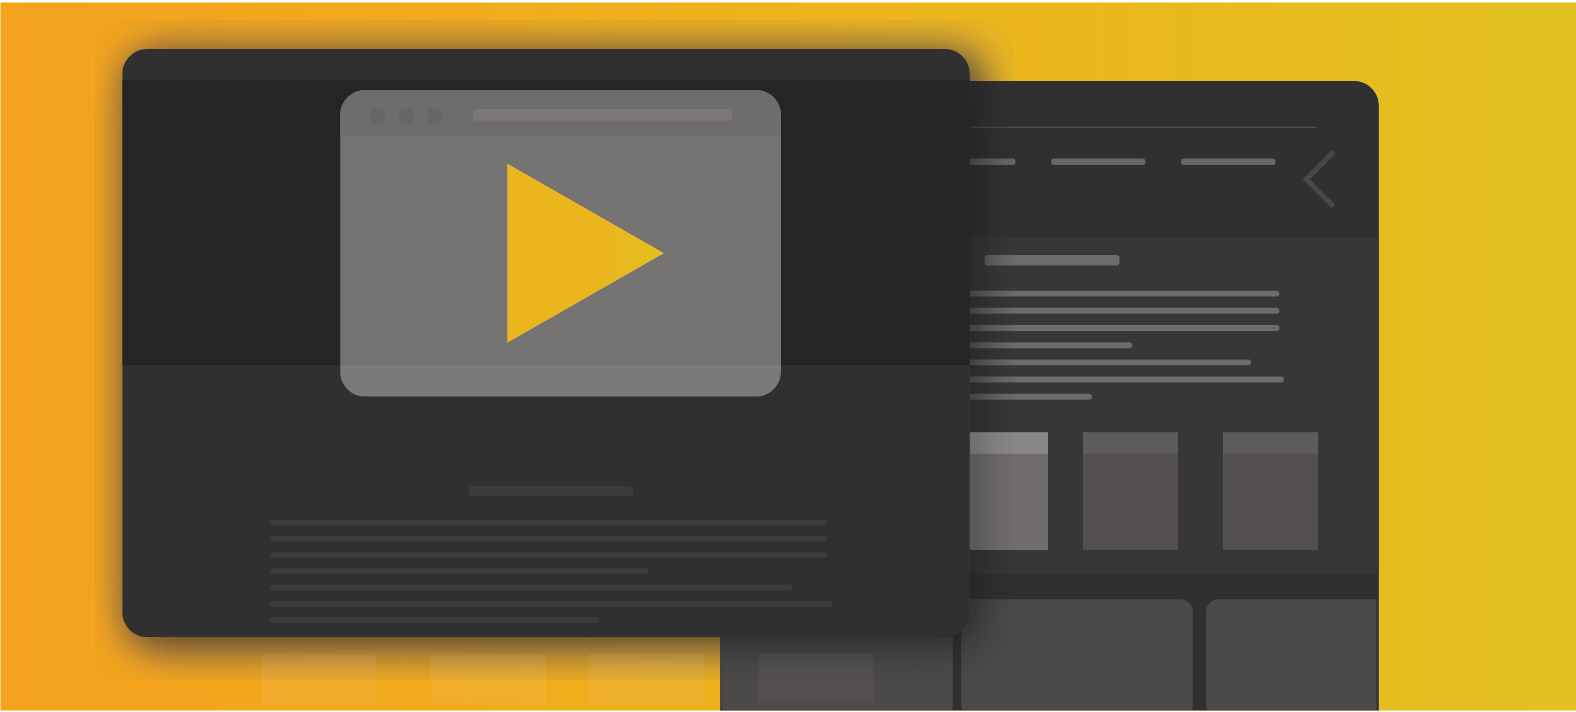
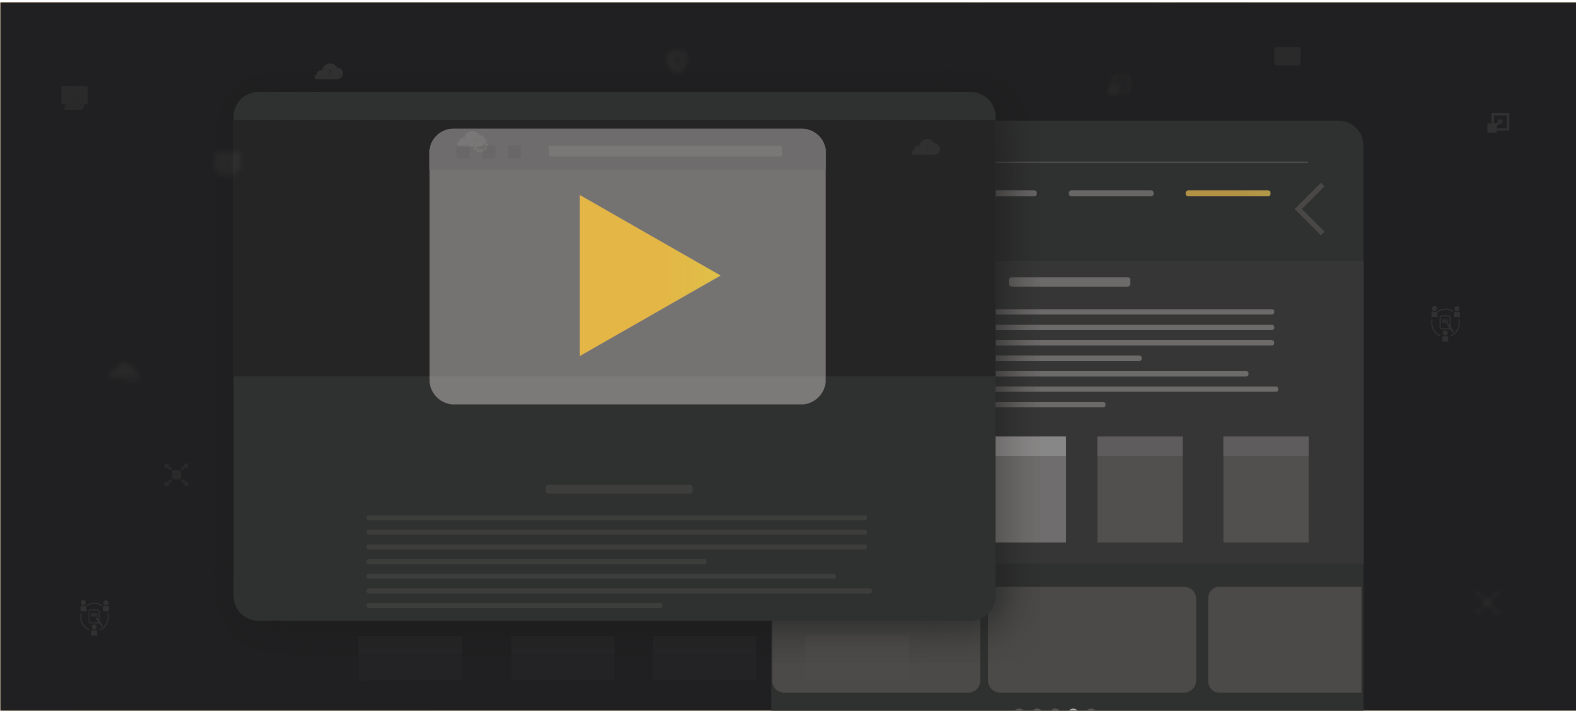
new

diff --git a/ohaka-restful-apis.html b/ohaka-restful-apis.html
@@ -13,9 +13,9 @@
     <body>
 
 
-        <div class="container-main" style="background-color: rgb(255, 182, 25); width: 30%;">
+        <div class="container-main" style="background-color: rgb(21, 21, 21); width: 30%;">
             <div class="text-block" style="width: 50%;  padding: 20px">
-               <a href="index.html"><img src="images/Larry Ohaka icon-02.png" width="100" height="80" id="lifepic" alt="Portrait"></a>
+               <a href="index.html"><img src="images/Larry Ohaka icon-02.png" width="80" height="60" id="lifepic" alt="Portrait"></a>
                 <h5 >PRESENTATIONS</h5> <p>Video presentation made in RESTful API WEB420</p></div>
             <div class="sidenav">
               <a href="index.html">Home</a>
@@ -28,7 +28,7 @@
             </footer> 
         </div>
 
-<div class="container-main"  id="container5">
+<div class="container-main"  id="container5" style="background-color: rgb(41, 41, 41); ">
 <section>
 
            <div class="container5" align="center" id="shows">
@@ -47,7 +47,7 @@
   <!-- The four columns -->
   <div style="text-align:center">
       <!--Video1-->
-      <p>RESTful APIs</p>
+      <p style="color: rgb(255, 182, 25);">RESTful APIs</p>
       <div style="width: 30%;">
         <div class="card-body">
         <video controls autoplay reload="none"  width="400" height="200" id="lifepic" alt="Portrait">
@@ -57,7 +57,7 @@
        </div>
     </br>
 <!--Video2-->
-<p>REST APIs</p>
+<p style="color: rgb(255, 182, 25);">REST APIs</p>
 <div>
     <div  style="width: 30%;">
     <video controls autoplay reload="none" width="400" height="200" id="lifepic" alt="Portrait">

diff --git a/ohaka-diagrams.html b/ohaka-diagrams.html
@@ -13,9 +13,9 @@
     <body>
 
 
-        <div class="container-main" style="background-color: rgb(255, 182, 25); width: 30%;">
+        <div class="container-main" style="background-color: rgb(21, 21, 21); width: 30%;">
             <div class="text-block" style="width: 50%;  padding: 20px">
-              <a href="index.html"><img src="images/Larry Ohaka icon-02.png" width="100" height="80" id="lifepic" alt="Portrait"></a>
+              <a href="index.html"><img src="images/Larry Ohaka icon-02.png" width="80" height="60" id="lifepic" alt="Portrait"></a>
                 <h5>DIAGRAMS</h5> <p>Diagrams made in Introduction to  NoSQL WEB355</p></div>
             <div class="sidenav">
               <a href="index.html">Home</a>
@@ -28,7 +28,7 @@
             </footer> 
         </div>
 
-<div class="container-main"  id="container5">
+<div class="container-main"  id="container5" style="background-color: rgb(41, 41, 41); ">
 <section>
 
            <div class="container5" align="center" id="shows">
@@ -41,7 +41,7 @@
   
   <div style="text-align:center" class=galtxt>
     <h2> Gallery</h2>
-    <p>NoSQL Diagrams</p>
+    <p style="color: rgb(255, 182, 25);">NoSQL Diagrams</p>
   </div>
   
   <!-- The four columns -->

diff --git a/index.html b/index.html
@@ -13,9 +13,9 @@
     <body>
 
 
-        <div class="container-main" style="background-color: rgb(255, 182, 25); width: 30%;">
+        <div class="container-main" style="background-color: rgb(21, 21, 21); width: 30%;">
             <div class="text-block" style="width: 50%;  padding: 20px">
-                <a href="index.html"><img src="images/Larry Ohaka icon-02.png" width="100" height="80" id="lifepic" alt="Portrait"></a>
+                <a href="index.html"><img src="images/Larry Ohaka icon-02.png" width="80" height="60" id="lifepic" alt="Portrait"></a>
                 <h5>HELLO!</h5> <p>This is my personal site! scroll down to learn more about me!</p></div>
             <div class="sidenav">
                 <a href="#me">About Me</a>
@@ -29,12 +29,12 @@
         </div>
        
 
-<div class="container-main" >
+<div class="container-main" style="background-color: rgb(41, 41, 41); ">
 <section>
 
            <div class="container5"  align="center" >
 
-            <img src="images/banner2.jpg"  style="width:100%"/>
+            <img src="images/WEB420-18.png"  style="width:100%"/>
                
             <!--Skillset section-->
             <div class="inline-block">

diff --git a/styles.css b/styles.css
@@ -1,12 +1,13 @@
 html{
-    font-size: 20px
+    font-size: 20px;
+    background-color: rgb(33, 33, 33);
 
 }
 
 body {
     font-family: Arial;
     color: grey;
-    background-color: honeydew;
+    background-color: rgb(33, 33, 33);
   }
 
   h1, h2, h4{
@@ -67,13 +68,13 @@ font-size: 17px;
     display: grid;
     grid-template-columns: auto auto auto auto;
     grid-gap: 10px;
-    background-color: #edeff0;
+    
     padding: 10px;
     
   }
   
   .grid-container > div {
-    background-color: rgba(255, 255, 255, 0.8);
+  
     text-align: center;
     font-size: 30px;
     padding: 20px;
@@ -119,7 +120,7 @@ font-size: 17px;
         width: 100%;  
         padding: 15px;
         margin-inline: 5px;
-        background-color: rgba(255, 255, 255, 0.8);
+      
     text-align: center;
     font-size: 20px;
     border-radius: 6px;
